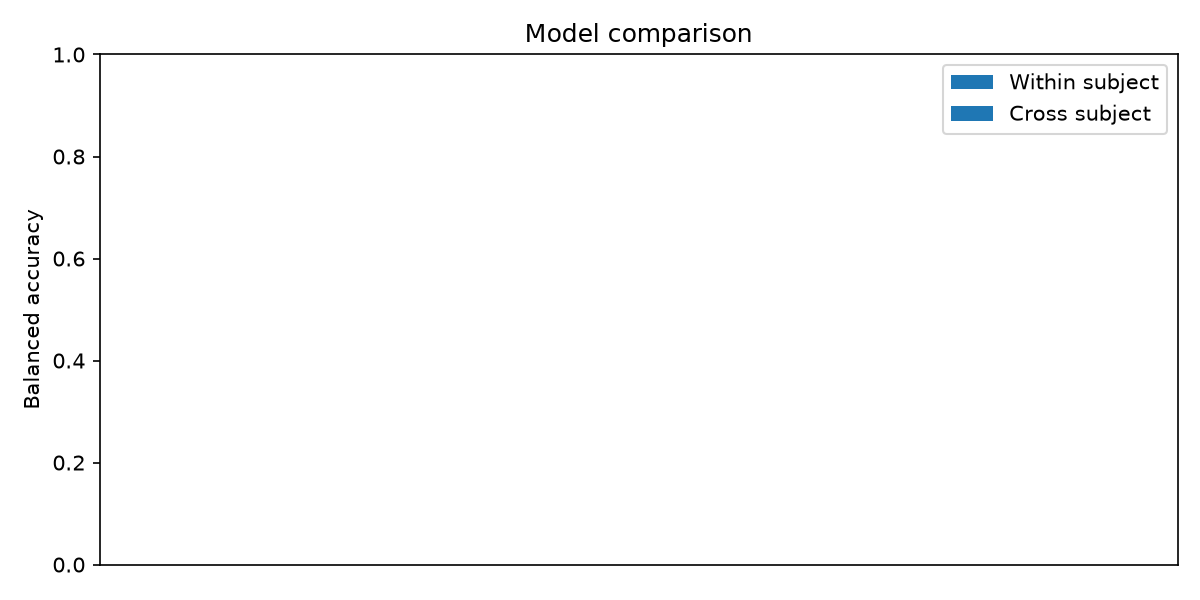
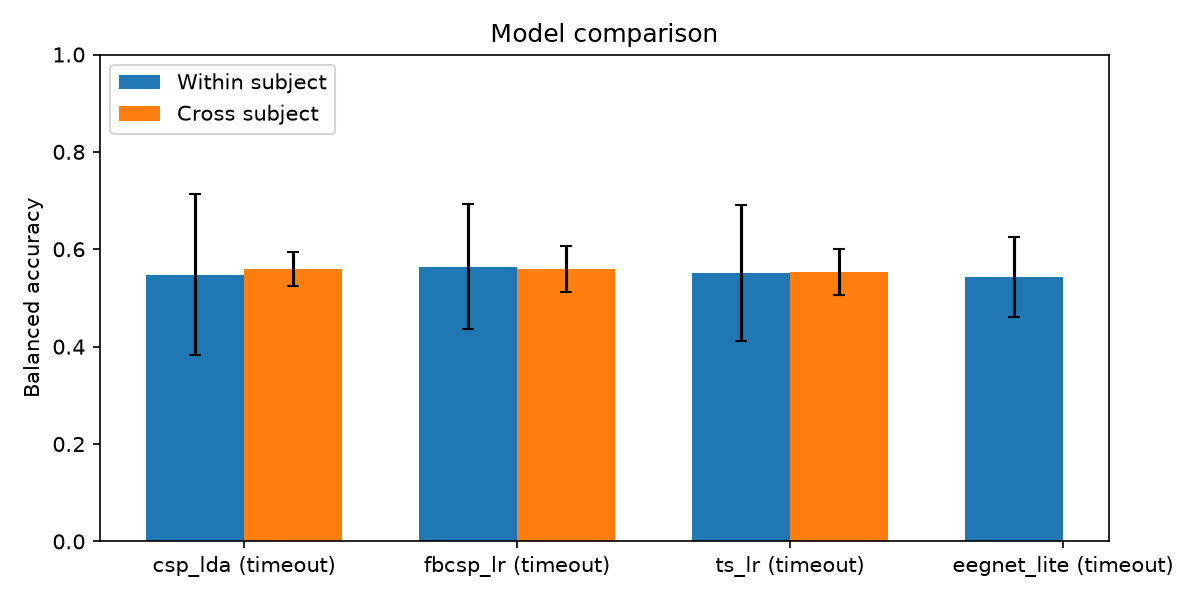
Integration: X3-fix merged, report re-rendered from real results, G5 now checks real numbers

diff --git a/docs/INTEGRATION.md b/docs/INTEGRATION.md
@@ -12,7 +12,7 @@ Not merged into main.
 | G2 no leak | PASS | same fast suite (Spy + Oracle on evaluate.py) |
 | G3 synthetic recovery | PASS | fast suite + slow `test_eegnet_recovers` passed |
 | G4 real plausibility | PASS, VACUOUS | 0 fails; every model has status timeout, so `g4_check` checked no value (4 warnings "status timeout, not checked") |
-| G5 report numbers | PASS, WEAK | results.md shows "timeout" for every model and holds no decimals, so the number check had nothing to match |
+| G5 report numbers | PASS | after X3-fix (32dad8a): results.md shows every finished block; all decimals match results.json; stats recomputation matches. Earlier X3-fix (4e2dd10) FAILED G5, see event 5 |
 | G6 determinism | PASS | `test_run_all_twice_same_results` passed (2 passed, 5026.40 s with G3-eegnet); fbcsp_lr timed out at the same k in both runs |
 | G7 fresh venv | PASS (synthetic) | `test_fresh_venv.py` 1 passed in 2838.78 s: fresh .venv_g7, pip install -r requirements.txt, `run_all.py --synthetic` exit 0, valid results.json. Real-data path ran clean in the shared venv (exit 0) |
 
@@ -30,9 +30,16 @@ Not merged into main.
    FROZEN, so no change. The research question (calibration crossover k) is NOT answered by this run.
 3. report.py (Codex-owned) hides finished blocks of models with status timeout; stats.comparisons is empty
    because compute_stats skips non-ok models. Inspection finding HIGH-1 in docs/INSPECTION_claude.md.
-   RETURNED to the Codex Line cook tier (ticket X3). The Codex session has ended, so it is open.
-   Integration mitigation: README.md lists the finished blocks straight from results.json.
+   RETURNED to the Codex Line cook tier (ticket X3-fix). FIXED in 32dad8a (see event 5).
 4. G4 rule (frozen `g4_check`) skips non-ok models, so a full timeout makes G4 vacuous. Not edited.
 
 ## Integration files
 run_all.py (one worker process per model, 2 BLAS threads each), README.md, results/, this file.
+
+5. X3-fix round 1 (4e2dd10) failed G5 on the real results:
+   `FAILED tests/locked/test_report_numbers.py::test_real_results_stats_and_rows`
+   `AssertionError: comparisons for ['eegnet_lite', 'fbcsp_lr', 'ts_lr'], expected []`
+   Cause: compute_stats included non-ok models, against the frozen REPORT CONTRACT. Integration was reset to
+   f48cd31 and the ticket returned to Codex (return 1 of 2). Round 2 (32dad8a) passed: G0 + G4 + G5 +
+   tests/codex 19 passed; re-rendering left results.json byte-identical. Both rounds were committed by the
+   lead because the Codex sandbox still cannot write .git/worktrees/codex/index.lock.

diff --git a/results/results.md b/results/results.md
@@ -1,20 +1,31 @@
 # Motor imagery model results
 
-Balanced accuracy, mean ± standard deviation:
+Balanced accuracy, mean ± standard deviation. Counts are the number of finished subjects or folds (`len(per_subject)` or `len(per_fold)`). A status of partial means the model did not finish all evaluation steps.
 
-| Model | Within subject | Cross subject |
-|---|---:|---:|
-| csp_lda | timeout | timeout |
-| fbcsp_lr | timeout | timeout |
-| ts_lr | timeout | timeout |
-| eegnet_lite | timeout | timeout |
+| Model | Status | Within subject | Cross subject | Permuted within | Permuted cross | Calibration k completed |
+|---|---|---:|---:|---:|---:|---|
+| csp_lda | partial (timeout) | 0.5479 ± 0.1653 (n=20) | 0.5588 ± 0.0346 (n=5) | 0.4902 | 0.5047 | 0 |
+| fbcsp_lr | partial (timeout) | 0.5645 ± 0.1285 (n=20) | 0.5597 ± 0.0477 (n=5) | — | — | — |
+| ts_lr | partial (timeout) | 0.5513 ± 0.1396 (n=20) | 0.5534 ± 0.0471 (n=5) | 0.4972 | 0.5030 | 0 |
+| eegnet_lite | partial (timeout) | 0.5435 ± 0.0826 (n=20) | — | — | — | — |
+
+## Calibration values
+
+Only completed calibration points are shown. Scores are balanced accuracy.
+
+| Model | Status | k | Source + target | Target only |
+|---|---|---:|---:|---:|
+| csp_lda | timeout | 0 | 0.5639 | — |
+| ts_lr | timeout | 0 | 0.5557 | — |
 
 ## Paired comparisons
 
-Wilcoxon signed-rank on matched within-subject balanced accuracies; median difference is model minus csp_lda. Holm step-down adjusts p-values.
+Wilcoxon signed-rank on matched within-subject balanced accuracies; median difference is model minus csp_lda. Holm step-down adjusts p-values across the 0 completed-model comparisons.
 
 | Model | Median difference | Raw p | Holm p |
 |---|---:|---:|---:|
+
+No paired comparison is available because no completed model can be compared with a completed csp_lda baseline; timed-out and errored models remain visible in the measurements above.
 
 ## Figures
 
@@ -26,4 +37,4 @@ Wilcoxon signed-rank on matched within-subject balanced accuracies; median diffe
 
 ## Limits
 
-The intended PhysioNet cohort contains 20 healthy subjects with about 45 trials each. Statistical power is low. These results do not establish clinical benefit or performance for a stroke cohort.
+The results metadata lists 20 subjects and 900 total trials. The subjects are healthy volunteers. Statistical power is limited by the cohort size. These results do not establish clinical benefit or performance for a stroke cohort.

diff --git a/docs/MORNING_REPORT.md b/docs/MORNING_REPORT.md
@@ -8,10 +8,10 @@
 | ts_lr | 0.5513 (0.1396) | 0.5534 (0.0471) | 0.4972 / 0.5030 | 0.5557 |
 | eegnet_lite | 0.5435 (0.0826) | not finished | not finished | not finished |
 Runtime_s: 2405.9, 2415.0, 2413.8, 2422.7. No paired stats (compute_stats skips non-ok models). **The main question (calibration crossover k) is NOT answered:** only k=0 finished.
-**Gates:** G0 PASS, G1 PASS, G2 PASS, G3 PASS, G4 PASS but vacuous (no ok model was checked), G5 PASS but weak (results.md has no decimals), G6 PASS (fbcsp_lr timed out at the same k in both synthetic runs), G7 PASS (fresh venv, synthetic). Details: docs/INTEGRATION.md.
+**Gates:** G0 PASS, G1 PASS, G2 PASS, G3 PASS, G4 PASS but vacuous (no ok model was checked), G5 PASS (after the X3 fix results.md shows every finished block), G6 PASS (fbcsp_lr timed out at the same k in both synthetic runs), G7 PASS (fresh venv, synthetic). Details: docs/INTEGRATION.md.
 **Blockers:**
 - Frozen budget too small: 40 min per model vs 820 full-source calibration fits. Fix in v0.3: raise `time_budget_min` or lower `calibration_repeats` (Head-chef decision on main).
-- report.py hides finished blocks of timed-out models (INSPECTION_claude HIGH-1). Returned to the Codex X3 Line cook, still open. README lists the blocks as a workaround.
+- report.py hid finished blocks of timed-out models (INSPECTION_claude HIGH-1). Fixed by Codex in 2 rounds (round 1 failed G5); merged as 32dad8a.
 - Codex sandbox: no git commit, no `codex exec`, no pytest tmp_path (docs/codex/BLOCKERS.md).
 **G4 warnings:** 4x "status timeout, not checked". If the rule were applied to the partial blocks, csp_lda within 0.5479 would sit below the 0.55 lower limit. That is a warning, not a fail.
 **Inspections:** Claude on Codex files: 1 HIGH, 4 MEDIUM, 5 LOW. Codex on Claude files: 1 High (calibration budget), 2 Medium, 1 Low; no leak found.
